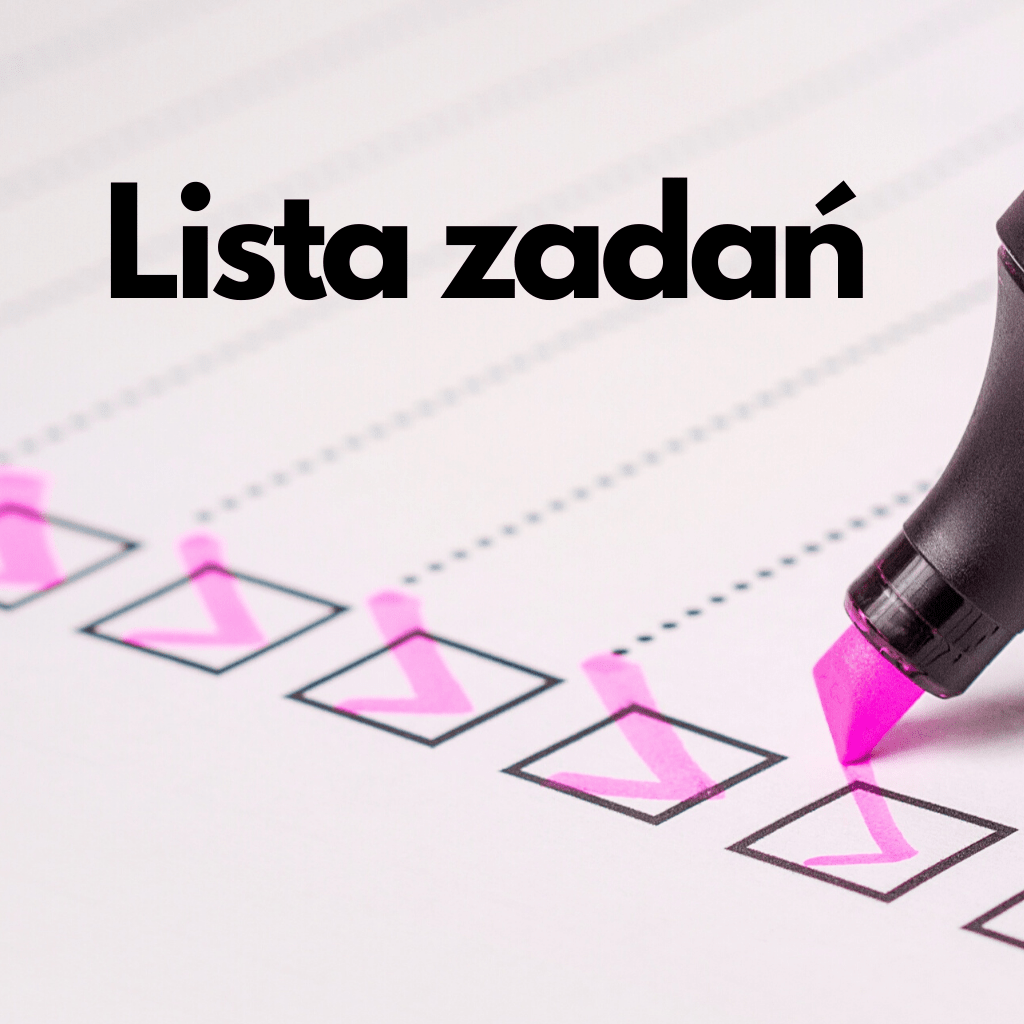
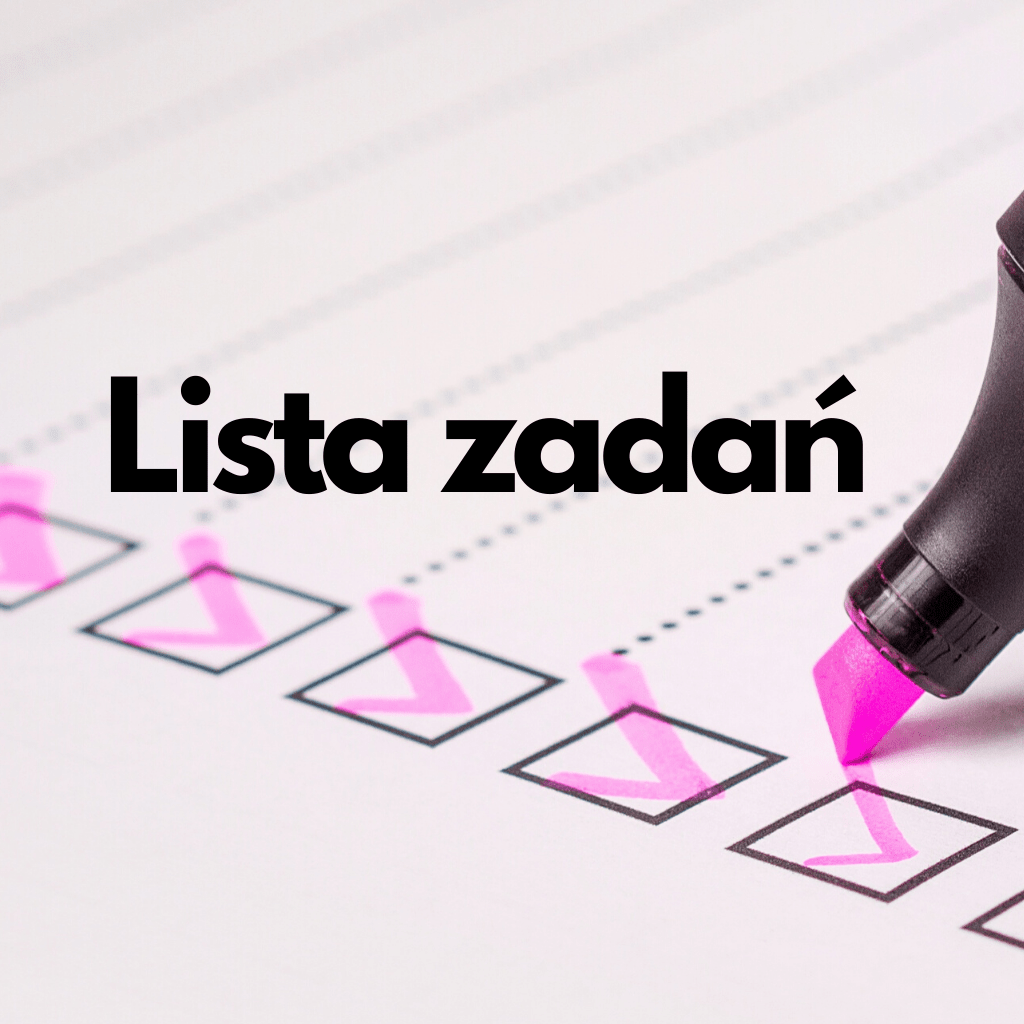
Updates

diff --git a/index.html b/index.html
@@ -1,1 +1,1 @@
-<!doctype html><html lang="pl"><head><meta charset="utf-8"/><link rel="icon" href="/to-do-list-react/icon.png"/><meta property="og:image" content="share.png"><meta name="viewport" content="width=device-width,initial-scale=1"/><meta name="theme-color" content="#000000"/><meta name="description" content="Lista zadań stworzona w React.js"/><link rel="apple-touch-icon" href="/to-do-list-react/logo192.png"/><link rel="manifest" href="/to-do-list-react/manifest.json"/><title>Lista zadań w React.js</title><link rel="stylesheet" href="https://cdnjs.cloudflare.com/ajax/libs/normalize/8.0.1/normalize.min.css" integrity="sha256-l85OmPOjvil/SOvVt3HnSSjzF1TUMyT9eV0c2BzEGzU=" crossorigin="anonymous"/><link href="https://fonts.googleapis.com/css2?family=Lato:wght@400;700&display=swap" rel="stylesheet"/><link href="/to-do-list-react/static/css/main.7675bc9e.chunk.css" rel="stylesheet"></head><body><noscript>You need to enable JavaScript to run this app.</noscript><div id="root"></div><script>!function(e){function t(t){for(var n,l,i=t[0],a=t[1],c=t[2],p=0,s=[];p<i.length;p++)l=i[p],Object.prototype.hasOwnProperty.call(o,l)&&o[l]&&s.push(o[l][0]),o[l]=0;for(n in a)Object.prototype.hasOwnProperty.call(a,n)&&(e[n]=a[n]);for(f&&f(t);s.length;)s.shift()();return u.push.apply(u,c||[]),r()}function r(){for(var e,t=0;t<u.length;t++){for(var r=u[t],n=!0,i=1;i<r.length;i++){var a=r[i];0!==o[a]&&(n=!1)}n&&(u.splice(t--,1),e=l(l.s=r[0]))}return e}var n={},o={1:0},u=[];function l(t){if(n[t])return n[t].exports;var r=n[t]={i:t,l:!1,exports:{}};return e[t].call(r.exports,r,r.exports,l),r.l=!0,r.exports}l.m=e,l.c=n,l.d=function(e,t,r){l.o(e,t)||Object.defineProperty(e,t,{enumerable:!0,get:r})},l.r=function(e){"undefined"!=typeof Symbol&&Symbol.toStringTag&&Object.defineProperty(e,Symbol.toStringTag,{value:"Module"}),Object.defineProperty(e,"__esModule",{value:!0})},l.t=function(e,t){if(1&t&&(e=l(e)),8&t)return e;if(4&t&&"object"==typeof e&&e&&e.__esModule)return e;var r=Object.create(null);if(l.r(r),Object.defineProperty(r,"default",{enumerable:!0,value:e}),2&t&&"string"!=typeof e)for(var n in e)l.d(r,n,function(t){return e[t]}.bind(null,n));return r},l.n=function(e){var t=e&&e.__esModule?function(){return e.default}:function(){return e};return l.d(t,"a",t),t},l.o=function(e,t){return Object.prototype.hasOwnProperty.call(e,t)},l.p="/to-do-list-react/";var i=this["webpackJsonptodo-list-react"]=this["webpackJsonptodo-list-react"]||[],a=i.push.bind(i);i.push=t,i=i.slice();for(var c=0;c<i.length;c++)t(i[c]);var f=a;r()}([])</script><script src="/to-do-list-react/static/js/2.f58a2cb7.chunk.js"></script><script src="/to-do-list-react/static/js/main.58ab3996.chunk.js"></script></body></html>
+<!doctype html><html lang="pl"><head><meta charset="utf-8"/><link rel="icon" href="/to-do-list-react/icon.png"/><meta property="og:image" content="/to-do-list-react/share.png"><meta name="viewport" content="width=device-width,initial-scale=1"/><meta name="theme-color" content="#000000"/><meta name="description" content="Lista zadań stworzona w React.js"/><link rel="apple-touch-icon" href="/to-do-list-react/logo192.png"/><link rel="manifest" href="/to-do-list-react/manifest.json"/><title>Lista zadań w React.js</title><link rel="stylesheet" href="https://cdnjs.cloudflare.com/ajax/libs/normalize/8.0.1/normalize.min.css" integrity="sha256-l85OmPOjvil/SOvVt3HnSSjzF1TUMyT9eV0c2BzEGzU=" crossorigin="anonymous"/><link href="https://fonts.googleapis.com/css2?family=Lato:wght@400;700&display=swap" rel="stylesheet"/><link href="/to-do-list-react/static/css/main.7675bc9e.chunk.css" rel="stylesheet"></head><body><noscript>You need to enable JavaScript to run this app.</noscript><div id="root"></div><script>!function(e){function t(t){for(var n,l,i=t[0],a=t[1],c=t[2],p=0,s=[];p<i.length;p++)l=i[p],Object.prototype.hasOwnProperty.call(o,l)&&o[l]&&s.push(o[l][0]),o[l]=0;for(n in a)Object.prototype.hasOwnProperty.call(a,n)&&(e[n]=a[n]);for(f&&f(t);s.length;)s.shift()();return u.push.apply(u,c||[]),r()}function r(){for(var e,t=0;t<u.length;t++){for(var r=u[t],n=!0,i=1;i<r.length;i++){var a=r[i];0!==o[a]&&(n=!1)}n&&(u.splice(t--,1),e=l(l.s=r[0]))}return e}var n={},o={1:0},u=[];function l(t){if(n[t])return n[t].exports;var r=n[t]={i:t,l:!1,exports:{}};return e[t].call(r.exports,r,r.exports,l),r.l=!0,r.exports}l.m=e,l.c=n,l.d=function(e,t,r){l.o(e,t)||Object.defineProperty(e,t,{enumerable:!0,get:r})},l.r=function(e){"undefined"!=typeof Symbol&&Symbol.toStringTag&&Object.defineProperty(e,Symbol.toStringTag,{value:"Module"}),Object.defineProperty(e,"__esModule",{value:!0})},l.t=function(e,t){if(1&t&&(e=l(e)),8&t)return e;if(4&t&&"object"==typeof e&&e&&e.__esModule)return e;var r=Object.create(null);if(l.r(r),Object.defineProperty(r,"default",{enumerable:!0,value:e}),2&t&&"string"!=typeof e)for(var n in e)l.d(r,n,function(t){return e[t]}.bind(null,n));return r},l.n=function(e){var t=e&&e.__esModule?function(){return e.default}:function(){return e};return l.d(t,"a",t),t},l.o=function(e,t){return Object.prototype.hasOwnProperty.call(e,t)},l.p="/to-do-list-react/";var i=this["webpackJsonptodo-list-react"]=this["webpackJsonptodo-list-react"]||[],a=i.push.bind(i);i.push=t,i=i.slice();for(var c=0;c<i.length;c++)t(i[c]);var f=a;r()}([])</script><script src="/to-do-list-react/static/js/2.f58a2cb7.chunk.js"></script><script src="/to-do-list-react/static/js/main.e4e09dfd.chunk.js"></script></body></html>

diff --git a/static/js/main.e4e09dfd.chunk.js b/static/js/main.e4e09dfd.chunk.js
@@ -1,0 +1,2 @@
+(this["webpackJsonptodo-list-react"]=this["webpackJsonptodo-list-react"]||[]).push([[0],[,,,function(e,t,a){e.exports=a(14)},,,,,function(e,t,a){},function(e,t,a){},function(e,t,a){},function(e,t,a){},function(e,t,a){},function(e,t,a){},function(e,t,a){"use strict";a.r(t);var n=a(0),o=a.n(n),r=a(2),l=a.n(r),c=(a(8),function(e){var t=e.title;return o.a.createElement("header",null,o.a.createElement("h1",null,t))}),i=(a(9),function(){return o.a.createElement("form",{className:"form"},o.a.createElement("input",{className:"form__input",placeholder:"Co jest do zrobienia?",autoFocus:!0}),o.a.createElement("button",{className:"form__button"},"Dodaj zadanie"))}),s=(a(10),function(e){var t=e.directionOfSort,a=e.isShowingEnabled,n=e.tasks;return o.a.createElement("div",{className:"buttons__container"},n.length>0&&o.a.createElement(o.a.Fragment,null,o.a.createElement("button",{className:"buttons__button"},"Posortuj zadania ",null===t?"":"asc"===t?"\u2193":"\u2191"),o.a.createElement("button",{className:"buttons__button"},a?"Ukryj uko\u0144czone":"Poka\u017c uko\u0144czone"),o.a.createElement("button",{className:"buttons__button",disabled:n.every((function(e){return e.done}))},"Uko\u0144cz wszystkie")))}),u=(a(11),function(e){var t=e.tasks,a=e.isShowingEnabled;return o.a.createElement("ul",{className:"list"},t.map((function(e){var t=e.id,n=e.name,r=e.done;return o.a.createElement("li",{key:t,className:"list__item ".concat(a||!r?"":"list__item--hide")},o.a.createElement("button",{className:"list__button list__button--done"},r?"\u2714":" "),o.a.createElement("p",{className:"list__paragraph"},r?o.a.createElement("s",null,n):n),o.a.createElement("button",{className:"list__button list__button--remove "},o.a.createElement("span",{role:"img","aria-label":"Delete"},"\u274c")))})))}),m=(a(12),function(e){var t=e.title,a=e.extraHeaderContent,n=e.sectionBody;return o.a.createElement("section",{className:"section"},o.a.createElement("header",{className:"section__header"},o.a.createElement("h2",{className:"section__title"},t),a),n)}),d=(a(13),function(e){var t=e.children;return o.a.createElement("main",{className:"container"},t)}),E=[{id:1,name:"Doda\u0107 interakcj\u0119 do aplikacji",done:!1},{id:2,name:"Przenie\u015b\u0107 aplikacj\u0119 do React.js",done:!0}];var _=function(){return o.a.createElement(d,null,o.a.createElement(c,{title:"Lista zada\u0144"}),o.a.createElement(m,{title:"Dodaj nowe zadanie",sectionBody:o.a.createElement(i,null)}),o.a.createElement(m,{title:"Lista zada\u0144",extraHeaderContent:o.a.createElement(s,{directionOfSort:null,isShowingEnabled:!0,tasks:E}),sectionBody:o.a.createElement(u,{tasks:E,isShowingEnabled:!0})}))};Boolean("localhost"===window.location.hostname||"[::1]"===window.location.hostname||window.location.hostname.match(/^127(?:\.(?:25[0-5]|2[0-4][0-9]|[01]?[0-9][0-9]?)){3}$/));l.a.render(o.a.createElement(o.a.StrictMode,null,o.a.createElement(_,null)),document.getElementById("root")),"serviceWorker"in navigator&&navigator.serviceWorker.ready.then((function(e){e.unregister()})).catch((function(e){console.error(e.message)}))}],[[3,1,2]]]);
+//# sourceMappingURL=main.e4e09dfd.chunk.js.map

diff --git a/precache-manifest.41c979160c4e0cee96f723507ff61837.js b/precache-manifest.41c979160c4e0cee96f723507ff61837.js
@@ -1,10 +1,10 @@
 self.__precacheManifest = (self.__precacheManifest || []).concat([
   {
-    "revision": "549ebbaf38d6fe1ebbca35f4131e2445",
+    "revision": "2d66c6517e0ca3c5e85f32573a1c16b0",
     "url": "/to-do-list-react/index.html"
   },
   {
-    "revision": "6dd25aa6dfbedf47f842",
+    "revision": "4111a0051289465fc652",
     "url": "/to-do-list-react/static/css/main.7675bc9e.chunk.css"
   },
   {
@@ -16,8 +16,8 @@ self.__precacheManifest = (self.__precacheManifest || []).concat([
     "url": "/to-do-list-react/static/js/2.f58a2cb7.chunk.js.LICENSE.txt"
   },
   {
-    "revision": "6dd25aa6dfbedf47f842",
-    "url": "/to-do-list-react/static/js/main.58ab3996.chunk.js"
+    "revision": "4111a0051289465fc652",
+    "url": "/to-do-list-react/static/js/main.e4e09dfd.chunk.js"
   },
   {
     "revision": "46b5cffd45b6b28600f3",

diff --git a/service-worker.js b/service-worker.js
@@ -14,7 +14,7 @@
 importScripts("https://storage.googleapis.com/workbox-cdn/releases/4.3.1/workbox-sw.js");
 
 importScripts(
-  "/to-do-list-react/precache-manifest.eb23e22cc196a6b344316ef0158c4580.js"
+  "/to-do-list-react/precache-manifest.41c979160c4e0cee96f723507ff61837.js"
 );
 
 self.addEventListener('message', (event) => {
